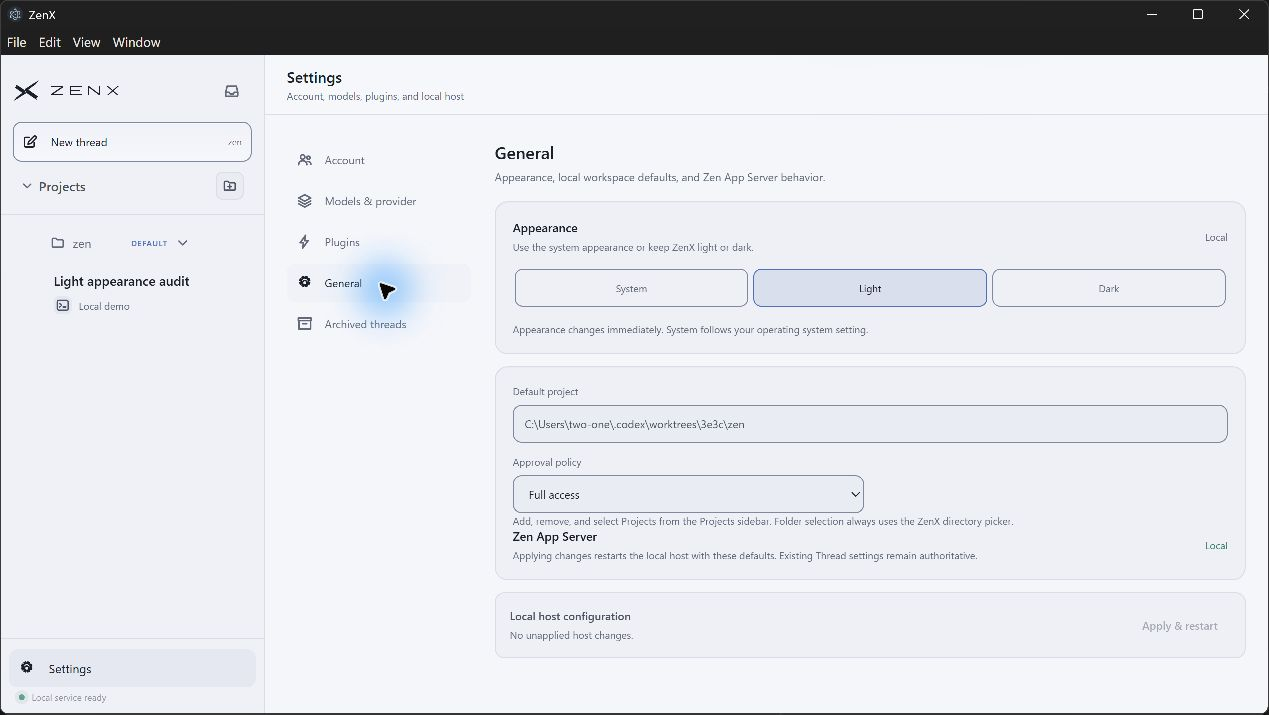
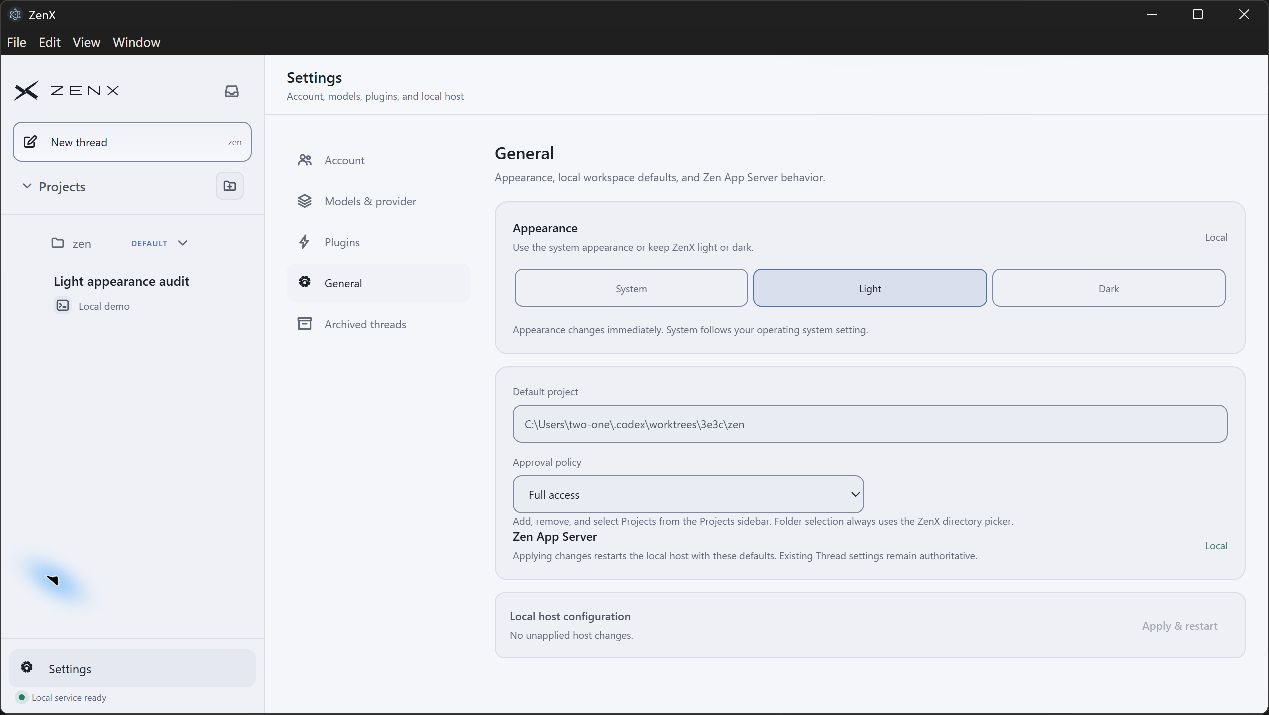
fix(zenx): preserve readable light status text

Changed region(s): [[0.2766, 0.3385, 0.3381, 0.4615], [0.0, 0.7692, 0.0615, 0.8615]]

diff --git a/apps/zenx/test/appearance.test.ts b/apps/zenx/test/appearance.test.ts
@@ -114,6 +114,11 @@ test("light semantic text, primary actions, and control boundaries meet contrast
   );
   assert.match(
     css,
+    /\.composer > textarea::placeholder\s*\{[^}]*color:\s*var\(--text-3\)[^}]*opacity:\s*1/u,
+  );
+  assert.match(css, /\.field small\s*\{[^}]*color:\s*var\(--text-3\)/u);
+  assert.match(
+    css,
     /\.thread-row\.selected\s*\{[^}]*background:\s*var\(--surface-hover\)/u,
   );
   assert.match(
@@ -127,6 +132,36 @@ test("light semantic text, primary actions, and control boundaries meet contrast
     assert.ok(inputRule, `missing .${selector} input rule`);
     assert.match(inputRule, /border:\s*1px solid var\(--border-control\)/u);
     assert.match(inputRule, /background:\s*var\(--surface-inset\)/u);
+  }
+
+  const lightOpacity = (selector: string) => {
+    const value = css.match(
+      new RegExp(
+        `:root\\[data-appearance="light"\\] \\.${selector}\\s*\\{[^}]*opacity:\\s*([0-9.]+)`,
+        "u",
+      ),
+    )?.[1];
+    assert.ok(value, `missing Light opacity override for .${selector}`);
+    return Number(value);
+  };
+  const serviceOpacity = lightOpacity("service-status");
+  const unavailableThreadOpacity = lightOpacity("thread-row\\.system-error");
+  assert.equal(serviceOpacity, 1);
+  assert.equal(unavailableThreadOpacity, 1);
+  assert.ok(
+    effectiveContrastRatio(token("text-3"), token("sidebar"), serviceOpacity) >=
+      4.5,
+    "Light service status must remain readable after opacity compositing",
+  );
+  for (const surface of ["sidebar", "surface-hover"]) {
+    assert.ok(
+      effectiveContrastRatio(
+        token("text-3"),
+        token(surface),
+        unavailableThreadOpacity,
+      ) >= 4.5,
+      `unavailable Thread metadata must remain readable over --${surface}`,
+    );
   }
 });
 
@@ -170,10 +205,43 @@ function contrastRatio(foreground: string, background: string): number {
   );
 }
 
-function relativeLuminance(hex: string): number {
-  const channels = [1, 3, 5].map((offset) =>
+function effectiveContrastRatio(
+  foreground: string,
+  background: string,
+  opacity: number,
+): number {
+  return contrastRatio(
+    compositeHex(foreground, background, opacity),
+    background,
+  );
+}
+
+function compositeHex(
+  foreground: string,
+  background: string,
+  opacity: number,
+): string {
+  const foregroundChannels = hexChannels(foreground);
+  const backgroundChannels = hexChannels(background);
+  return `#${foregroundChannels
+    .map((channel, index) =>
+      Math.round(
+        channel * opacity + (backgroundChannels[index] ?? 0) * (1 - opacity),
+      )
+        .toString(16)
+        .padStart(2, "0"),
+    )
+    .join("")}`;
+}
+
+function hexChannels(hex: string): number[] {
+  return [1, 3, 5].map((offset) =>
     Number.parseInt(hex.slice(offset, offset + 2), 16),
   );
+}
+
+function relativeLuminance(hex: string): number {
+  const channels = hexChannels(hex);
   const [red = 0, green = 0, blue = 0] = channels.map((value) => {
     const channel = value / 255;
     return channel <= 0.04045

diff --git a/apps/zenx/src/renderer/src/styles.css b/apps/zenx/src/renderer/src/styles.css
@@ -795,6 +795,9 @@ a:focus-visible {
 .thread-row.system-error {
   opacity: 0.72;
 }
+:root[data-appearance="light"] .thread-row.system-error {
+  opacity: 1;
+}
 .thread-row.inbox {
   min-height: 80px;
   gap: 5px;
@@ -912,6 +915,9 @@ a:focus-visible {
   padding: 2px 10px 0;
   font-size: 9px;
   opacity: 0.68;
+}
+:root[data-appearance="light"] .service-status {
+  opacity: 1;
 }
 .sidebar-scrim {
   display: none;
@@ -1503,7 +1509,8 @@ a:focus-visible {
   line-height: 1.5;
 }
 .composer > textarea::placeholder {
-  color: var(--text-disabled);
+  color: var(--text-3);
+  opacity: 1;
 }
 .composer-rail {
   min-height: 50px;
@@ -1869,7 +1876,7 @@ a:focus-visible {
   gap: 8px;
 }
 .field small {
-  color: var(--text-disabled);
+  color: var(--text-3);
   font-size: 9px;
 }
 .field input,
